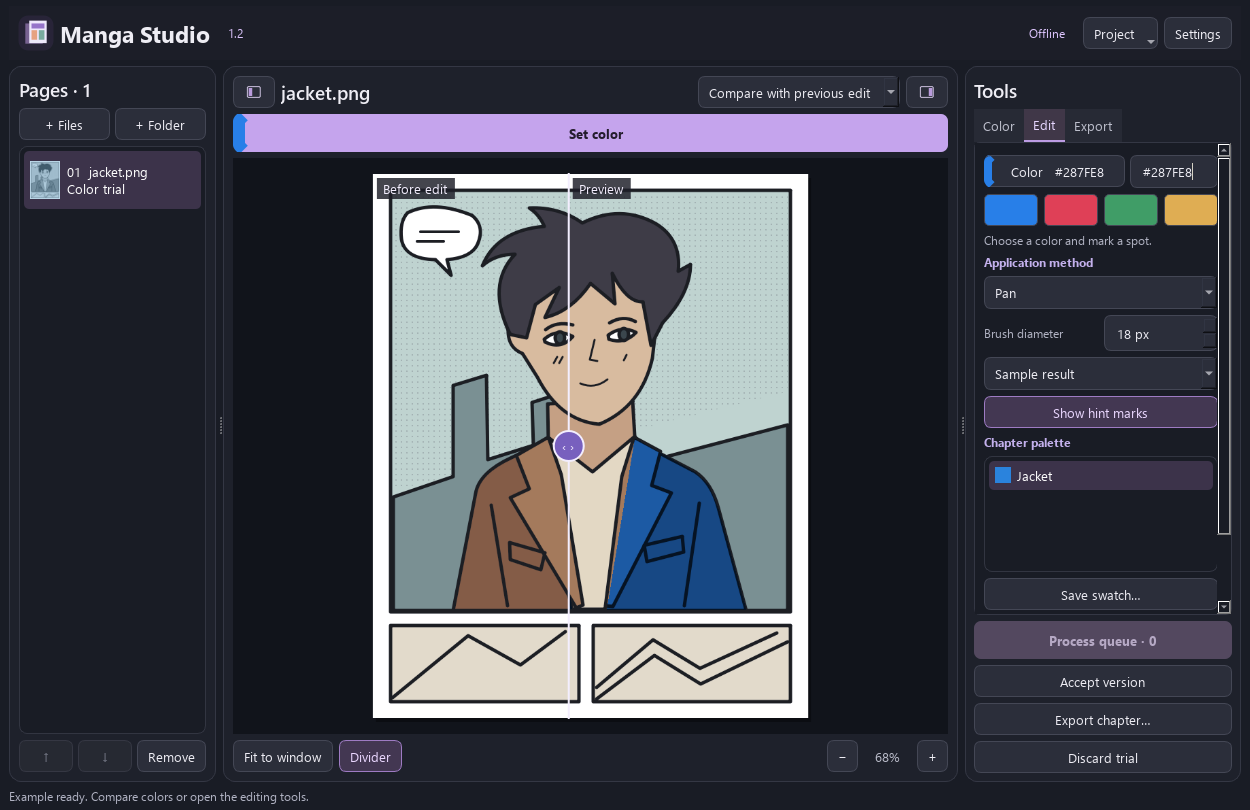
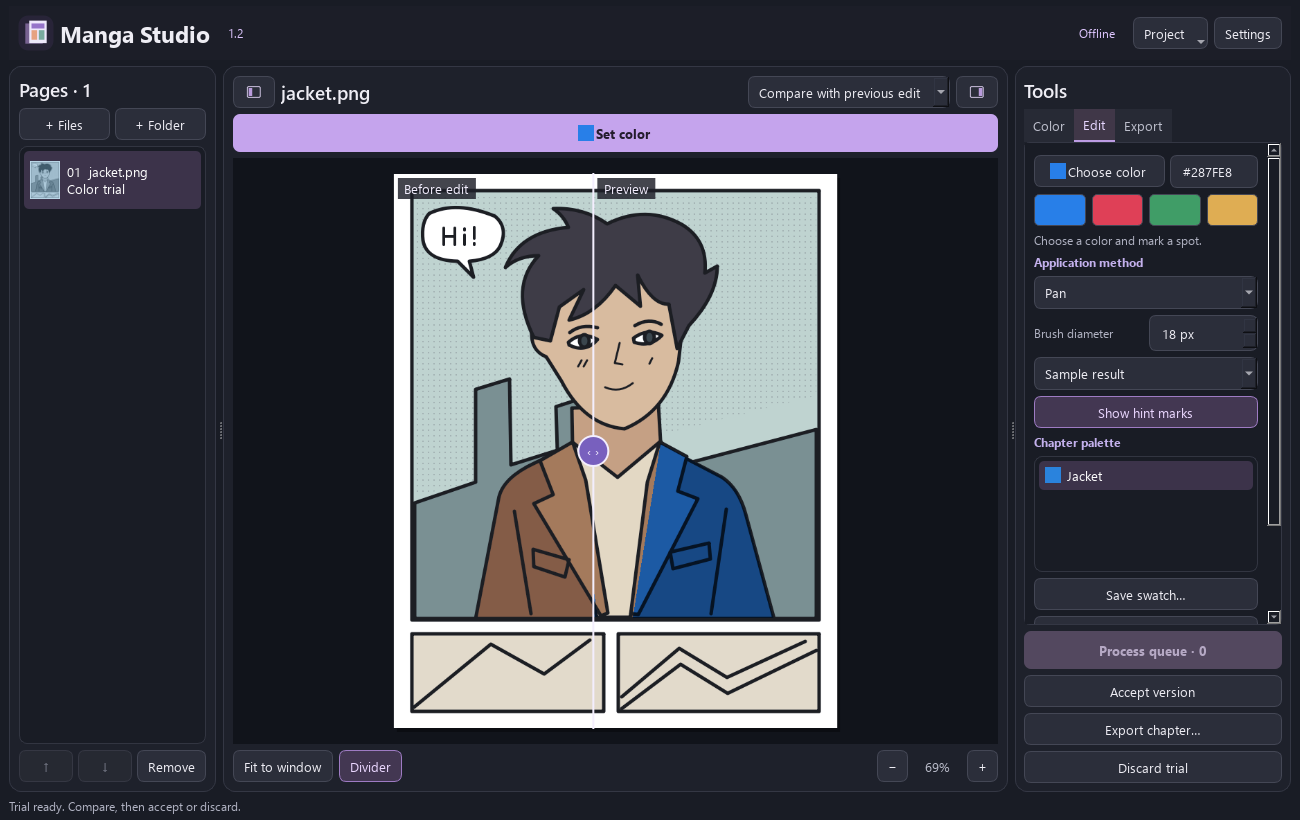
Verify editor, accessibility and migration in release build

diff --git a/studio/window.py b/studio/window.py
@@ -29,7 +29,7 @@ class Window(QMainWindow):
     def __init__(self, config=None):
         super().__init__()
         self.config = config if config is not None else QSettings(str(ROOT / ".studio-1.2.ini"), QSettings.IniFormat)
-        if config is None and not self.config.contains("device"):
+        if config is None and not self.config.allKeys():
             old = QSettings(str(ROOT / ".studio.ini"), QSettings.IniFormat)
             for key in old.allKeys():
                 self.config.setValue(key,old.value(key))
@@ -443,8 +443,11 @@ class Window(QMainWindow):
             if value == self.canvas.color.name() and (name==self.active_swatch or not self.active_swatch):
                 self.palette_box.setCurrentItem(item)
         self.hex_box.setText(self.canvas.color.name().upper())
-        self.swatch.setText(tr("Цвет   {0}", self.canvas.color.name().upper()))
-        self.swatch.setStyleSheet(f"border-left: 8px solid {self.canvas.color.name()}")
+        chip = QPixmap(18,18)
+        chip.fill(self.canvas.color)
+        self.swatch.setText(tr("Выбрать цвет"))
+        self.swatch.setIcon(QIcon(chip))
+        self.set_color_btn.setIcon(QIcon(chip))
         self.loading = False
 
     def refresh(self):
@@ -479,7 +482,6 @@ class Window(QMainWindow):
                 self.one_btn.setText(tr("Применить подсказки · {0}", n))
         self.set_color_btn.setEnabled(editable)
         self.color_note.setText(tr("Отметьте область на странице.") if self.canvas.tool!="view" else tr("Выберите оттенок и отметьте место."))
-        self.set_color_btn.setStyleSheet(f"border-left: 12px solid {self.canvas.color.name()};")
         self.hex_box.setEnabled(editable)
         self.view.model().item(3).setEnabled(bool(p and p.trial))
         self.export_btn.setEnabled(bool(free and pages))
@@ -725,7 +727,7 @@ class Window(QMainWindow):
             if s.kind == "hint":
                 p.original_base = False
                 self.marks.setChecked(True)
-            elif not p.version() and not self.has_color(p):
+            elif not p.version() and not self.has_color(p) and not any(stroke.kind=="hint" for stroke in p.strokes):
                 p.original_base = True
             name = self.active_swatch if self.palette_colors.get(self.active_swatch)==self.canvas.color.name() else self.canvas.color.name()
             if s.kind=="hint":
@@ -737,10 +739,13 @@ class Window(QMainWindow):
             p.redo.clear()
             self.canvas.update()
             self.changed(s.kind!="hint")
+            if s.kind!="hint":
+                self.status.setText(tr("Проба готова. Сравните и примите или отмените."))
 
     def undo(self):
         p = self.current()
         if p and p.strokes and not self.worker:
+            self.begin_trial(p)
             p.redo.append(p.strokes.pop())
             self.canvas.update()
             self.changed()
@@ -748,26 +753,31 @@ class Window(QMainWindow):
     def redo(self):
         p = self.current()
         if p and p.redo and not self.worker:
+            self.begin_trial(p)
             p.strokes.append(p.redo.pop())
             self.canvas.update()
             self.changed()
 
     def edit_settings(self):
-        dialog = SettingsDialog(self.current().settings if self.current() else self.settings,self)
+        initial = self.current().settings if self.current() else self.settings
+        dialog = SettingsDialog(initial,self)
         if dialog.exec():
             language = dialog.language.currentData()
             previous = self.config.value("language","auto")
             self.config.setValue("language",language)
-            self.settings = dialog.values()
-            for k,val in settings_dict(self.settings).items():
-                self.config.setValue(k,val)
-            for p in self.pages.values():
-                p.settings = self.settings
+            new_settings = dialog.values()
+            if new_settings != initial:
+                self.settings = new_settings
+                for k,val in settings_dict(self.settings).items():
+                    self.config.setValue(k,val)
+                for p in self.pages.values():
+                    p.settings = self.settings
             self.config.sync()
             self.changed()
             if language != previous:
                 self.restart_language = True
                 self.close()
+        dialog.deleteLater()
 
     def about(self):
         dialog = QDialog(self)

diff --git a/studio/layout.py b/studio/layout.py
@@ -2,7 +2,7 @@ from .i18n import tr
 from PySide6.QtCore import QSize, Qt
 from PySide6.QtGui import QAction, QColor, QIcon, QKeySequence, QPainter, QPen, QPixmap
 from PySide6.QtWidgets import (QComboBox, QFrame, QHBoxLayout, QLabel, QLineEdit, QListWidget, QMenu, QPushButton,
-                               QProgressBar, QScrollArea, QSizePolicy, QSlider, QSpinBox, QSplitter,
+                               QLayout, QProgressBar, QScrollArea, QSizePolicy, QSlider, QSpinBox, QSplitter,
                                QStackedWidget, QTabWidget, QVBoxLayout, QWidget)
 from .canvas import Canvas
 from .engine import MODES
@@ -54,9 +54,11 @@ def tab(tabs, name):
     scroll.setWidgetResizable(True)
     scroll.setHorizontalScrollBarPolicy(Qt.ScrollBarAlwaysOff)
     w = QWidget()
+    w.setSizePolicy(QSizePolicy.Ignored,QSizePolicy.Preferred)
     scroll.setWidget(w)
     tabs.addTab(scroll, name)
     lay = QVBoxLayout(w)
+    lay.setSizeConstraint(QLayout.SetNoConstraint)
     lay.setContentsMargins(9, 12, 9, 8)
     return lay
 
@@ -232,6 +234,8 @@ def build(w):
                         (tr("Только в выделении · лассо"),"lasso"),(tr("Вернуть оригинал"),"restore"),
                         (tr("Снять восстановление"),"erase"),(tr("Пипетка"),"pick")):
         w.tool.addItem(title,code)
+    w.tool.setSizeAdjustPolicy(QComboBox.AdjustToMinimumContentsLengthWithIcon)
+    w.tool.setMinimumContentsLength(8)
     w.tool.currentIndexChanged.connect(w.change_tool)
     edit.addWidget(w.tool)
     w.diameter = QSpinBox()
@@ -258,7 +262,8 @@ def build(w):
     edit.addWidget(w.palette_box)
     w.palette_add = button(tr("Запомнить оттенок…"),w.name_color)
     edit.addWidget(w.palette_add)
-    row(edit,button(tr("Переименовать"),w.rename_color),button(tr("Удалить оттенок"),w.delete_color))
+    edit.addWidget(button(tr("Переименовать"),w.rename_color))
+    edit.addWidget(button(tr("Удалить оттенок"),w.delete_color))
     w.undo_btn = button(tr("Отменить"),w.undo,tip="Ctrl+Z")
     w.redo_btn = button(tr("Вернуть"),w.redo,tip="Ctrl+Y")
     row(edit,w.undo_btn,w.redo_btn)

diff --git a/tests/check_release.py b/tests/check_release.py
@@ -77,6 +77,19 @@ def check_language(app,root,code,artifacts,deep):
             w.rename_color()
         assert w.active_swatch=="Coat blue"
         w.tool.setCurrentIndex(w.tool.findData("paint"));w.diameter.setValue(28)
+        if code=="en":
+            # Light cheek, dark hair and a small area just outside the speech balloon.
+            for x,y in ((0.46,0.34),(0.45,0.17),(0.25,0.12)):
+                center=screen_point(w,x,y)
+                QTest.mouseClick(w.canvas,Qt.LeftButton,pos=center);idle(w)
+                test=page_pixels(w)
+                u,v=w.canvas.normalized(center)
+                iy,ix=round(v*(old.shape[0]-1)),round(u*(old.shape[1]-1))
+                yy,xx=np.ogrid[:old.shape[0],:old.shape[1]]
+                outside=(yy-iy)**2+(xx-ix)**2>16**2
+                assert np.array_equal(test[outside],old[outside]) and not np.array_equal(test,old)
+                w.discard_btn.click();idle(w)
+                assert np.array_equal(page_pixels(w),old)
         w.setFocus();QTest.keyClick(w,Qt.Key_BracketRight);assert w.canvas.diameter==29
         QTest.keyClick(w,Qt.Key_BracketLeft);assert w.canvas.diameter==28
         a,b=screen_point(w,.31,.66),screen_point(w,.33,.70)
@@ -108,6 +121,7 @@ def check_language(app,root,code,artifacts,deep):
             w.tabs.setCurrentIndex(1);w.view.setCurrentIndex(w.view.findData("result"));app.processEvents()
             w.grab().save(str(artifacts/f"{code}.png"))
         # Alt samples without changing the active brush. Out-of-page motion ends the stroke.
+        w.tabs.setCurrentIndex(1)
         w.tool.setCurrentIndex(w.tool.findData("paint"));w.sample_from.setCurrentIndex(1)
         mid=screen_point(w,.33,.7)
         QTest.mouseClick(w.canvas,Qt.LeftButton,Qt.AltModifier,pos=mid)

diff --git a/studio/canvas.py b/studio/canvas.py
@@ -214,7 +214,7 @@ class Canvas(QWidget):
                     tag = QRectF(side.left()+4, side.top()+4, tag_width, 21)
                     p.fillRect(tag, QColor(28, 29, 39, 210))
                     p.drawText(tag, Qt.AlignCenter, name)
-        if self.show_marks and self.view != "previous":
+        if self.show_marks:
             for stroke in self.strokes:
                 if stroke.kind == "hint":
                     self.paint_stroke(p, rect, stroke)
@@ -266,15 +266,17 @@ class Canvas(QWidget):
     @staticmethod
     def paint_stroke(p, rect, stroke):
         points = [QPointF(rect.left() + x * rect.width(), rect.top() + y * rect.height()) for x, y in stroke.points]
-        p.setPen(QPen(QColor(*stroke.color), max(2, stroke.width * rect.width()),
-                      Qt.SolidLine, Qt.RoundCap, Qt.RoundJoin))
-        if len(points) == 1:
-            p.drawPoint(points[0])
-        else:
-            path = QPainterPath(points[0])
-            for point in points[1:]:
-                path.lineTo(point)
-            p.drawPath(path)
+        path = QPainterPath(points[0])
+        for point in points[1:]:
+            path.lineTo(point)
+        size = max(2, stroke.width * rect.width())
+        p.setBrush(Qt.NoBrush)
+        for color, diameter in ((QColor("#ffffff"),size+2),(QColor(*stroke.color),size)):
+            p.setPen(QPen(color,diameter,Qt.SolidLine,Qt.RoundCap,Qt.RoundJoin))
+            if len(points)==1:
+                p.drawPoint(points[0])
+            else:
+                p.drawPath(path)
 
     def paint_empty(self, p):
         cx, cy = self.width() / 2, self.height() / 2
